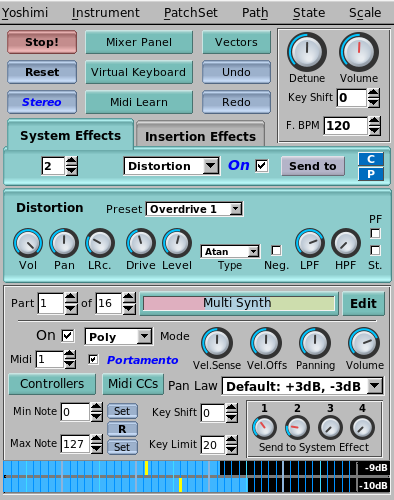
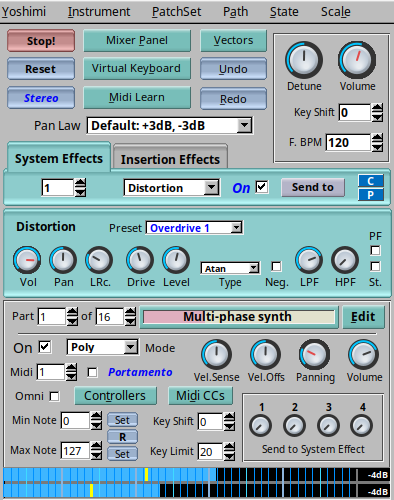
Update website for 2.3.4

diff --git a/sources/downloads.html b/sources/downloads.html
@@ -50,10 +50,10 @@ Here are links to source archives that you can compile on your machine.
   <tbody>
   <tr>
     <td>
-      <a href="https://github.com/Yoshimi/yoshimi/archive/2.3.3.1.zip">2.3.3.1</a>
+      <a href="https://github.com/Yoshimi/yoshimi/archive/2.3.4.zip">2.3.4</a>
     </td>
     <td>
-      <a href="https://github.com/Yoshimi/yoshimi/archive/2.3.3.1.tar.gz">2.3.3.1</a>
+      <a href="https://github.com/Yoshimi/yoshimi/archive/2.3.4.tar.gz">2.3.4</a>
     </td>
   </tr>
   </tbody>
@@ -73,6 +73,31 @@ Here are links to source archives that you can compile on your machine.
     </tr>
   </thead>
   <tbody>
+    <tr>
+      <td>
+        <a href="https://github.com/Yoshimi/yoshimi/archive/2.3.3.3.zip">2.3.3.3</a>
+      </td>
+      <td>
+        <a href="https://github.com/Yoshimi/yoshimi/archive/2.3.3.3.tar.gz">2.3.3.3</a>
+      </td>
+    </tr>
+
+    <tr>
+      <td>
+        <a href="https://github.com/Yoshimi/yoshimi/archive/2.3.3.2.zip">2.3.3.2</a>
+      </td>
+      <td>
+        <a href="https://github.com/Yoshimi/yoshimi/archive/2.3.3.2.tar.gz">2.3.3.2</a>
+      </td>
+    </tr>
+    <tr>
+      <td>
+        <a href="https://github.com/Yoshimi/yoshimi/archive/2.3.3.1.zip">2.3.3.1</a>
+      </td>
+      <td>
+        <a href="https://github.com/Yoshimi/yoshimi/archive/2.3.3.1.tar.gz">2.3.3.1</a>
+      </td>
+    </tr>
     <tr>
       <td>
         <a href="https://github.com/Yoshimi/yoshimi/archive/2.3.3.zip">2.3.3</a>

diff --git a/sources/history.html b/sources/history.html
@@ -198,6 +198,11 @@
     Additionally, the internals saw some improvements to memory-handling with a number of bugs being fixed in the process.
     There were also improvements to the config control, an extended range of keyboard shortcuts and fixes to some old display-issues.
   </p>
+  <p>
+    A few patch releases were made for 2.3.3.x in the first half of 2025 and then, in early June, 2.3.4 was released. This version introduced the Omni Control whereby any part could be made to receive MIDI signals from all incoming channels.
+    A number of quality-of-life improvements were made to the configuration system to prevent accidental loss of unsaved changes.
+  </p>
+
   <p>And the story continues...</p>
 
 </div>

diff --git a/gen_site.py b/gen_site.py
@@ -1,4 +1,4 @@
-#!/usr/bin/env python
+#!/usr/bin/env python3
 # Build script for the yoshimi web site
 #
 # Do not use this for anything complex,
